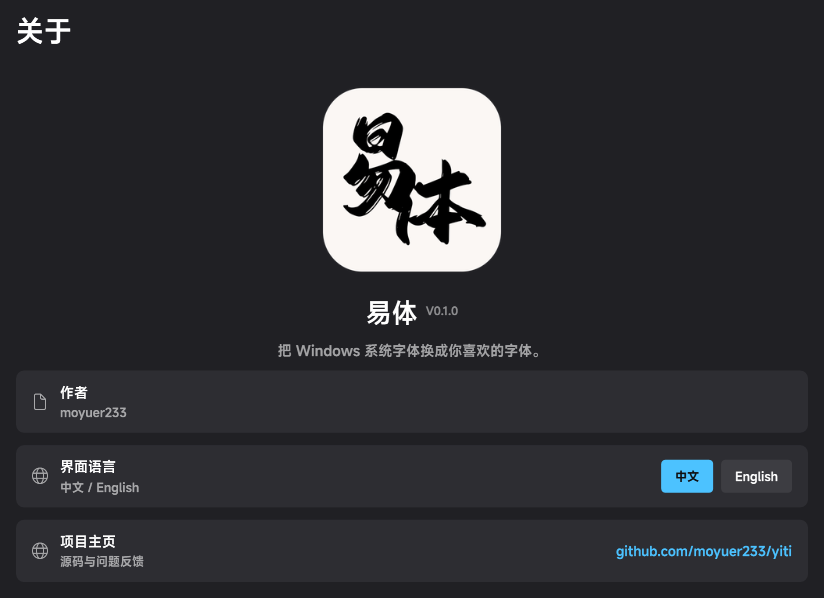
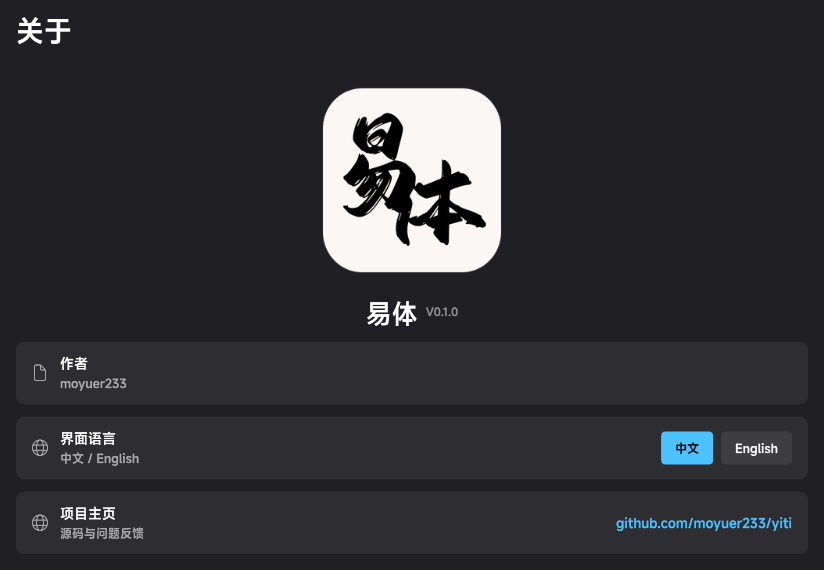
chore(ui): remove the slogan line from the about page

diff --git a/wpf/MainWindow.cs b/wpf/MainWindow.cs
@@ -968,11 +968,7 @@ namespace WinFontSwap.Wpf
             nameRow.Children.Add(ver);
             head.Children.Add(nameRow);
 
-            var tag = T.Label(L.T("把 Windows 系统字体换成你喜欢的字体。"), 14, T.TextDim, false);
-            tag.FontStyle = FontStyles.Italic;
-            tag.HorizontalAlignment = HorizontalAlignment.Center;
-            tag.Margin = new Thickness(0, 10, 0, 0);
-            head.Children.Add(tag);
+
             stack.Children.Add(head);
 
 
